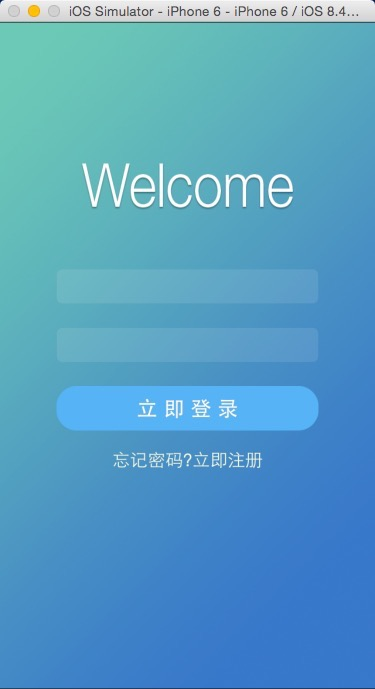
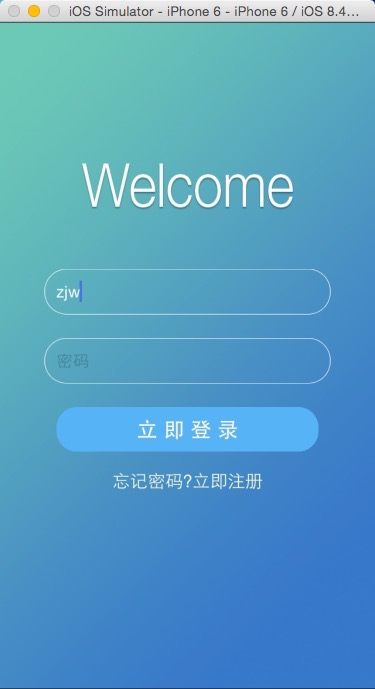
[update] 输入事件

diff --git a/Chater/Chater/Class/sence/user/controller/RegisterViewController.m b/Chater/Chater/Class/sence/user/controller/RegisterViewController.m
@@ -12,6 +12,9 @@
 @interface RegisterViewController ()
 @property (weak, nonatomic) IBOutlet UITextField *txt4UserName;
 @property (weak, nonatomic) IBOutlet UITextField *txt4PassWord;
+@property (weak, nonatomic) IBOutlet UIButton *btn4register;
+@property (weak, nonatomic) IBOutlet UIButton *btn4login;
+
 
 @end
 
@@ -19,13 +22,56 @@
 
 - (void)viewDidLoad {
     [super viewDidLoad];
-    // Do any additional setup after loading the view.
+    
+    UIImageView *backImageView = [[UIImageView alloc] initWithImage:[UIImage imageNamed:@"background"]];
+    [self.view addSubview:backImageView];
+    
+    [backImageView mas_makeConstraints:^(MASConstraintMaker *make) {
+        make.edges.equalTo(self.view);
+    }];
+    
+    [self.view bringSubviewToFront:self.txt4UserName];
+    [self.view bringSubviewToFront:self.txt4PassWord];
+
+    [self.view bringSubviewToFront:self.btn4login];
+    [self.view bringSubviewToFront:self.btn4register];
+    
+    [self buildUI];
+}
+
+- (void)buildUI{
+    //用户名输入框
+    [self.txt4UserName mas_makeConstraints:^(MASConstraintMaker *make) {
+        make.top.equalTo(self.view).offset(100);
+        make.centerX.equalTo(self.view);
+        make.width.equalTo(self.view).multipliedBy(0.7);
+    }];
+    
+    //密码输入框
+    [self.txt4PassWord mas_makeConstraints:^(MASConstraintMaker *make) {
+        make.top.equalTo(self.txt4UserName.mas_bottom).offset(40);
+        make.centerX.equalTo(self.view);
+        make.width.equalTo(self.txt4UserName);
+    }];
+    
+    //注册按钮
+    [self.btn4register mas_makeConstraints:^(MASConstraintMaker *make) {
+        make.top.equalTo(self.txt4PassWord.mas_bottom).offset(80);
+        make.centerX.equalTo(self.view);
+        make.width.equalTo(self.txt4PassWord);
+    }];
+    
+    //登陆按钮
+    [self.btn4login mas_makeConstraints:^(MASConstraintMaker *make) {
+        make.top.equalTo(self.btn4register.mas_bottom).offset(40);
+        make.centerX.equalTo(self.view);
+    }];
 }
 
 - (void)didReceiveMemoryWarning {
     [super didReceiveMemoryWarning];
-    // Dispose of any resources that can be recreated.
 }
+
 - (IBAction)registerAction:(id)sender {
     
     AVUser *user = [AVUser new];
@@ -41,14 +87,9 @@
     }];
 }
 
-/*
-#pragma mark - Navigation
-
-// In a storyboard-based application, you will often want to do a little preparation before navigation
-- (void)prepareForSegue:(UIStoryboardSegue *)segue sender:(id)sender {
-    // Get the new view controller using [segue destinationViewController].
-    // Pass the selected object to the new view controller.
+- (IBAction)loginAction:(id)sender {
+    [self.navigationController popViewControllerAnimated:YES];
 }
-*/
+
 
 @end

diff --git a/Chater/Chater/Class/sence/user/controller/LoginViewController.m b/Chater/Chater/Class/sence/user/controller/LoginViewController.m
@@ -12,7 +12,7 @@
 #import <CoreLocation/CoreLocation.h>
 #import "AVGeoPoint.h"
 
-@interface LoginViewController ()<CLLocationManagerDelegate>
+@interface LoginViewController ()<CLLocationManagerDelegate,UITextFieldDelegate>
 @property (weak, nonatomic) IBOutlet UITextField *txt4UserName;
 
 @property (weak, nonatomic) IBOutlet UITextField *txt4PassWord;
@@ -42,6 +42,8 @@
         self.point = [AVGeoPoint geoPointWithLocation:self.locationManager.location];
     }
 
+    self.txt4PassWord.delegate = self;
+    self.txt4UserName.delegate = self;
     
     [self buildUI];
 
@@ -77,12 +79,33 @@
         make.width.equalTo(self.backImageView).multipliedBy(0.7);
     }];
     
+    //输入框添加一个圈
+    UIImageView *namebackimage = [[UIImageView alloc] initWithImage:[UIImage imageNamed:@"textbackgroundimage"]];
+    [self.view addSubview:namebackimage];
+    [namebackimage mas_makeConstraints:^(MASConstraintMaker *make) {
+        make.center.equalTo(self.txt4UserName);
+        make.height.equalTo(self.txt4UserName);
+        make.width.equalTo(self.txt4UserName).offset(20);
+    }];
+    [self.view bringSubviewToFront:self.txt4UserName];
+    
     //密码输入框
     [self.txt4PassWord mas_makeConstraints:^(MASConstraintMaker *make) {
         make.centerX.equalTo(self.backImageView);
         make.top.equalTo(self.txt4UserName.mas_bottom).offset(20);
         make.width.equalTo(self.txt4UserName);
     }];
+    
+    //输入框添加一个圈
+    UIImageView *passwordBackimage = [[UIImageView alloc] initWithImage:[UIImage imageNamed:@"textbackgroundimage"]];
+    passwordBackimage.userInteractionEnabled = YES;
+    [self.view addSubview:passwordBackimage];
+    [passwordBackimage mas_makeConstraints:^(MASConstraintMaker *make) {
+        make.center.equalTo(self.txt4PassWord);
+        make.height.equalTo(self.txt4PassWord);
+        make.width.equalTo(self.txt4PassWord).offset(20);
+    }];
+    [self.view bringSubviewToFront:self.txt4PassWord];
     
     //登陆按钮
     [self.btn4login mas_makeConstraints:^(MASConstraintMaker *make) {
@@ -97,9 +120,6 @@
         make.centerX.equalTo(self.backImageView);
         make.top.equalTo(self.btn4login.mas_bottom).offset(10);
     }];
-    
-    
-    
 }
 
 
@@ -134,6 +154,11 @@
     return YES;
 }
 
+#pragma mark - UITextFieldDelegate
+- (BOOL)textFieldShouldReturn:(UITextField *)textField{
+    [textField resignFirstResponder];
+    return YES;
+}
 
 #pragma mark - CLLocationManagerDelegate
 - (void)locationManager:(nonnull CLLocationManager *)manager didUpdateLocations:(nonnull NSArray *)locations{
